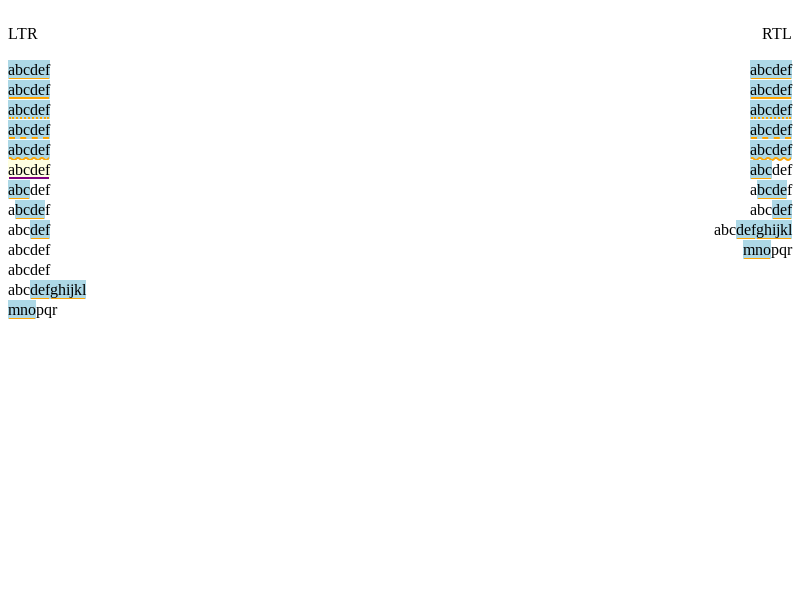
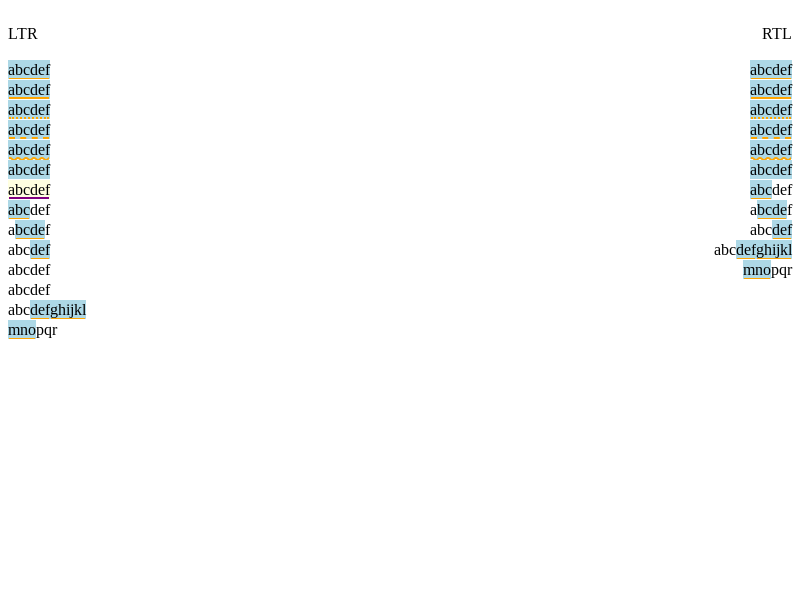
Removed painting styleable marker for underline style none.
On Windows, dictation comes as a composition and in some cases
the underline style is set as TF_LS_NONE to differentiate between
high confidence and low confidence words. This patch skips the
painting of underline if the style is set as none.

Bug: 1033764

Commit-Queue: Anupam Snigdha <snianu@microsoft.com>
Cr-Original-Commit-Position: refs/heads/master@{#770396}
Cr-Mirrored-From: https://chromium.googlesource.com/chromium/src
Cr-Mirrored-Commit: 3dadbe55a82835d36bbfbf5b19f22db2a2d38a24

Changed region(s): [[0.0, 0.24, 0.125, 0.57], [0.875, 0.27, 1.0, 0.48]]

diff --git a/blink/web_tests/paint/markers/composition-marker-basic.html b/blink/web_tests/paint/markers/composition-marker-basic.html
@@ -9,6 +9,7 @@
     <div id="markRtlAllDotted">abcdef</div>
     <div id="markRtlAllDashed">abcdef</div>
     <div id="markRtlAllSquiggled">abcdef</div>
+    <div id="markRtlNone">abcdef</div>
     <div id="markRtlBeginning">abcdef</div>
     <div id="markRtlAllExceptFirstAndLast">abcdef</div>
     <div id="markRtlEnd">abcdef</div>
@@ -22,6 +23,7 @@
     <div id="markAllDotted">abcdef</div>
     <div id="markAllDashed">abcdef</div>
     <div id="markAllSquiggled">abcdef</div>
+    <div id="markAllNone">abcdef</div>
     <div id="markAllDifferentColors">abcdef</div>
     <div id="markBeginning">abcdef</div>
     <div id="markAllExceptFirstAndLast">abcdef</div>
@@ -59,6 +61,7 @@ onload = runAfterLayoutAndPaint(function() {
     highlightRange(markAllDotted, 0, 6, 'orange', 'thick', 'dot', 'lightBlue');
     highlightRange(markAllDashed, 0, 6, 'orange', 'thick', 'dash', 'lightBlue');
     highlightRange(markAllSquiggled, 0, 6, 'orange', 'thick', 'squiggle', 'lightBlue');
+    highlightRange(markAllNone, 0, 6, 'orange', 'thick', 'none', 'lightBlue');
     highlightRange(markAllDifferentColors, 0, 6, 'purple', 'thick', 'solid', 'lightYellow');
     highlightRangeSimple(markBeginning, 0, 3);
     highlightRangeSimple(markAllExceptFirstAndLast, 1, 5);
@@ -71,6 +74,7 @@ onload = runAfterLayoutAndPaint(function() {
     highlightRange(markRtlAllDotted, 0, 6, 'orange', 'thick', 'dot', 'lightBlue');
     highlightRange(markRtlAllDashed, 0, 6, 'orange', 'thick', 'dash', 'lightBlue');
     highlightRange(markRtlAllSquiggled, 0, 6, 'orange', 'thick', 'squiggle', 'lightBlue');
+    highlightRange(markRtlNone, 0, 6, 'orange', 'thick', 'none', 'lightBlue');
     highlightRangeSimple(markRtlBeginning, 0, 3);
     highlightRangeSimple(markRtlAllExceptFirstAndLast, 1, 5);
     highlightRangeSimple(markRtlEnd, 3, 6);

diff --git a/blink/renderer/core/paint/ng/ng_text_fragment_painter.cc b/blink/renderer/core/paint/ng/ng_text_fragment_painter.cc
@@ -329,12 +329,15 @@ void PaintDocumentMarkers(GraphicsContext& context,
                     styleable_marker.BackgroundColor());
           break;
         }
-        const SimpleFontData* font_data = style.GetFont().PrimaryFont();
-        DocumentMarkerPainter::PaintStyleableMarkerUnderline(
-            context, box_origin, styleable_marker, style,
-            FloatRect(MarkerRectForForeground(
-                text_fragment, text, paint_start_offset, paint_end_offset)),
-            LayoutUnit(font_data->GetFontMetrics().Height()));
+        if (DocumentMarkerPainter::ShouldPaintMarkerUnderline(
+                styleable_marker)) {
+          const SimpleFontData* font_data = style.GetFont().PrimaryFont();
+          DocumentMarkerPainter::PaintStyleableMarkerUnderline(
+              context, box_origin, styleable_marker, style,
+              FloatRect(MarkerRectForForeground(
+                  text_fragment, text, paint_start_offset, paint_end_offset)),
+              LayoutUnit(font_data->GetFontMetrics().Height()));
+        }
       } break;
 
       default:

diff --git a/blink/renderer/core/paint/document_marker_painter.cc b/blink/renderer/core/paint/document_marker_painter.cc
@@ -126,6 +126,17 @@ void DrawDocumentMarker(GraphicsContext& context,
 
 }  // namespace
 
+bool DocumentMarkerPainter::ShouldPaintMarkerUnderline(
+    const StyleableMarker& marker) {
+  if (marker.HasThicknessNone() ||
+      (marker.UnderlineColor() == Color::kTransparent &&
+       !marker.UseTextColor()) ||
+      marker.UnderlineStyle() == ui::mojom::ImeTextSpanUnderlineStyle::kNone) {
+    return false;
+  }
+  return true;
+}
+
 void DocumentMarkerPainter::PaintStyleableMarkerUnderline(
     GraphicsContext& context,
     const PhysicalOffset& box_origin,
@@ -133,11 +144,6 @@ void DocumentMarkerPainter::PaintStyleableMarkerUnderline(
     const ComputedStyle& style,
     const FloatRect& marker_rect,
     LayoutUnit logical_height) {
-  if (marker.HasThicknessNone() ||
-      (marker.UnderlineColor() == Color::kTransparent &&
-       !marker.UseTextColor()))
-    return;
-
   // start of line to draw, relative to box_origin.X()
   LayoutUnit start = LayoutUnit(marker_rect.X());
   LayoutUnit width = LayoutUnit(marker_rect.Width());

diff --git a/blink/renderer/core/paint/inline_text_box_painter.cc b/blink/renderer/core/paint/inline_text_box_painter.cc
@@ -618,7 +618,8 @@ void InlineTextBoxPainter::PaintDocumentMarkers(
               paint_info.context, box_origin, style, font,
               styleable_marker.BackgroundColor(), marker_offsets.start,
               marker_offsets.end);
-        } else {
+        } else if (DocumentMarkerPainter::ShouldPaintMarkerUnderline(
+                       styleable_marker)) {
           PaintStyleableMarkerUnderline(paint_info.context, box_origin,
                                         styleable_marker, style, font);
         }

diff --git a/blink/renderer/core/paint/document_marker_painter.h b/blink/renderer/core/paint/document_marker_painter.h
@@ -41,6 +41,7 @@ class DocumentMarkerPainter {
   static TextPaintStyle ComputeTextPaintStyleFrom(const ComputedStyle& style,
                                                   const TextMarkerBase& marker,
                                                   bool in_forced_colors_mode);
+  static bool ShouldPaintMarkerUnderline(const StyleableMarker& marker);
 };
 
 }  // namespace blink
